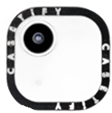
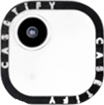
커스텀페이지: 태블릿 임팩트 맥북만 사진조정

diff --git a/src/pages/custom/PhonePreview.jsx b/src/pages/custom/PhonePreview.jsx
@@ -182,93 +182,76 @@ const MODEL_LAYOUT = {
     'ipad': {
         scale: 1.2, bodyW: 260, bodyH: 358,
         bodyRadius: 20,
-        canvas: { top: 30, left: 30, w: 200, h: 298, radius: 8 },
-        camera: { top: 10, left: 120, width: 20, height: 20 },
+        canvas: { top: 32, left: 41, w: 187, h: 310, radius: 20 },
+        camera: { top: 40, left: 50, width: 30, height: 48, background:'#e6e6e6',radius:30 },
     },
     'ipadmini': {
         scale: 1.2, bodyW: 240, bodyH: 338,
         bodyRadius: 20,
-        canvas: { top: 30, left: 28, w: 184, h: 278, radius: 8 },
-        camera: { top: 10, left: 110, width: 20, height: 20 },
+        canvas: { top: 23, left: 35, w: 186, h: 300, radius: 8 },
+        camera: { top: 30, left: 40, width: 24, height: 40 },
     },
     'ipadair4': {
         scale: 1.2, bodyW: 250, bodyH: 348,
         bodyRadius: 18,
-        canvas: { top: 28, left: 28, w: 194, h: 292, radius: 8 },
-        camera: { top: 10, left: 115, width: 20, height: 20 },
+        canvas: { top: 30, left: 34, w: 184, h: 302, radius: 12 },
+camera: { top: 40, left: 40, width: 40, height: 40,background:'#e6e6e6',radius:10 },
     },
-    'ipadair11': {
-        scale: 1.2, bodyW: 250, bodyH: 348,
-        bodyRadius: 18,
-        canvas: { top: 28, left: 28, w: 194, h: 292, radius: 8 },
-        camera: null,
-    },
-    'ipadair13': {
-        scale: 1.1, bodyW: 290, bodyH: 380,
-        bodyRadius: 18,
-        canvas: { top: 28, left: 30, w: 230, h: 324, radius: 8 },
-        camera: null,
-    },
-    'ipadpro11': {
-        scale: 1.2, bodyW: 250, bodyH: 348,
-        bodyRadius: 16,
-        canvas: { top: 20, left: 20, w: 210, h: 308, radius: 6 },
-        camera: null,
-    },
+
     'ipadpro11s3': {
         scale: 1.2, bodyW: 250, bodyH: 348,
         bodyRadius: 16,
-        canvas: { top: 20, left: 20, w: 210, h: 308, radius: 6 },
-        camera: { top: 8, left: 115, width: 20, height: 20 },
+        canvas: { top: 26, left: 40, w: 168, h: 303, radius: 12 },
+        camera: { top: 30, left: 44, width: 40, height: 40 },
     },
     'ipadpro12.9': {
         scale: 1.0, bodyW: 290, bodyH: 390,
         bodyRadius: 16,
-        canvas: { top: 22, left: 22, w: 246, h: 346, radius: 6 },
-        camera: { top: 8, left: 135, width: 20, height: 20 },
+        canvas: { top: 14, left: 22, w: 248, h: 355, radius: 15 },
+        camera: { top: 20, left: 25, width: 50, height: 50 },
     },
     'ipadpro13': {
         scale: 1.0, bodyW: 290, bodyH: 390,
         bodyRadius: 16,
-        canvas: { top: 22, left: 22, w: 246, h: 346, radius: 6 },
-        camera: { top: 8, left: 135, width: 20, height: 20 },
+        canvas: { top: 26, left: 28, w: 248, h: 350, radius:18 },
+        camera: { top: 29, left: 30, width: 60, height: 60 },
     },
 
     // ── MacBook ────────────────────────────
     'macbook13': {
         scale: 1.2, bodyW: 380, bodyH: 240,
         bodyRadius: 10,
-        canvas: { top: 14, left: 46, w: 288, h: 182, radius: 4 },
+        canvas: { top: 19, left: 29, w: 338, h: 203, radius: 47},
         camera: null,
     },
     'macbook15': {
         scale: 1.1, bodyW: 420, bodyH: 260,
         bodyRadius: 10,
-        canvas: { top: 14, left: 52, w: 316, h: 200, radius: 4 },
-        camera: null,
+        canvas: { top: 29, left: 34, w: 370, h: 210, radius: 45},
+        camera: null
     },
     'macbookair13': {
         scale: 1.2, bodyW: 380, bodyH: 240,
         bodyRadius: 10,
-        canvas: { top: 14, left: 46, w: 288, h: 182, radius: 4 },
+        canvas: { top: 30, left: 35, w: 329, h: 191, radius: 46 },
         camera: null,
     },
     'macbookair13s1': {
         scale: 1.2, bodyW: 380, bodyH: 240,
         bodyRadius: 10,
-        canvas: { top: 14, left: 46, w: 288, h: 182, radius: 4 },
+        canvas: { top: 21.2, left: 40, w: 320, h: 195, radius: 9 },
         camera: null,
     },
     'macbookpro14': {
         scale: 1.15, bodyW: 400, bodyH: 252,
         bodyRadius: 10,
-        canvas: { top: 14, left: 50, w: 300, h: 192, radius: 4 },
+        canvas: { top: 17.6, left: 32, w: 348.8, h: 219, radius: 49.8 },
         camera: null,
     },
     'macbookpro16': {
         scale: 1.05, bodyW: 440, bodyH: 275,
         bodyRadius: 10,
-        canvas: { top: 16, left: 54, w: 332, h: 210, radius: 4 },
+        canvas: { top: 25, left: 27, w: 388.8, h: 232.5, radius: 49 },
         camera: null,
     },
 }

diff --git a/src/pages/custom/constants/index.js b/src/pages/custom/constants/index.js
@@ -18,8 +18,7 @@ export const BRANDS = [
     models: [
       { id: 's25ultra', label: 'Galaxy S25 Ultra' },
       { id: 's25plus', label: 'Galaxy S25+' },
-      { id: 's25', label: 'Galaxy S25' },
-      { id: 's24ultra', label: 'Galaxy S24 Ultra' },
+
       { id: 's24', label: 'Galaxy S24' },
       { id: 'z6fold', label: 'Galaxy Z Fold 6' },
       { id: 'z6flip', label: 'Galaxy Z Flip 6' },
@@ -42,9 +41,9 @@ export const TABLET_BRANDS = [
       { id: 'ipad', label: 'iPad' },
       { id: 'ipadmini', label: 'iPad mini' },
       { id: 'ipadair4', label: 'iPad Air 4세대' },
-      { id: 'ipadair11', label: 'iPad Air 11인치' },
-      { id: 'ipadair13', label: 'iPad Air 13인치' },
-      { id: 'ipadpro11', label: 'iPad Pro 11인치' },
+
+
+
       { id: 'ipadpro11s3', label: 'iPad Pro 11인치 3세대' },
       { id: 'ipadpro12.9', label: 'iPad Pro 12.9인치' },
       { id: 'ipadpro13', label: 'iPad Pro 13인치' },